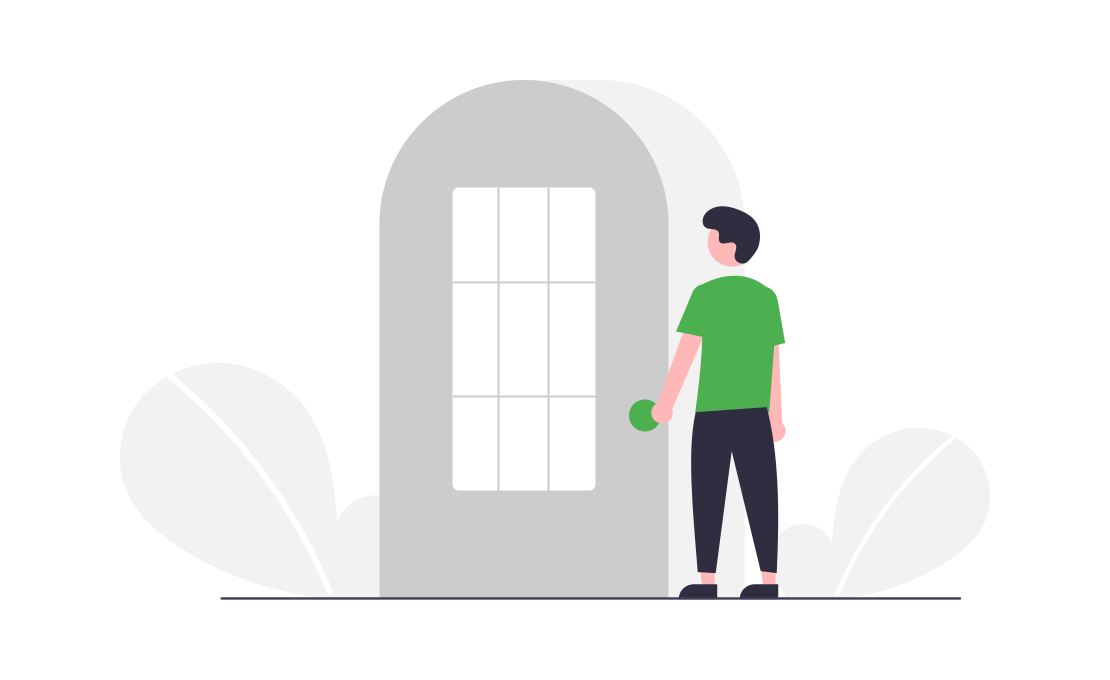
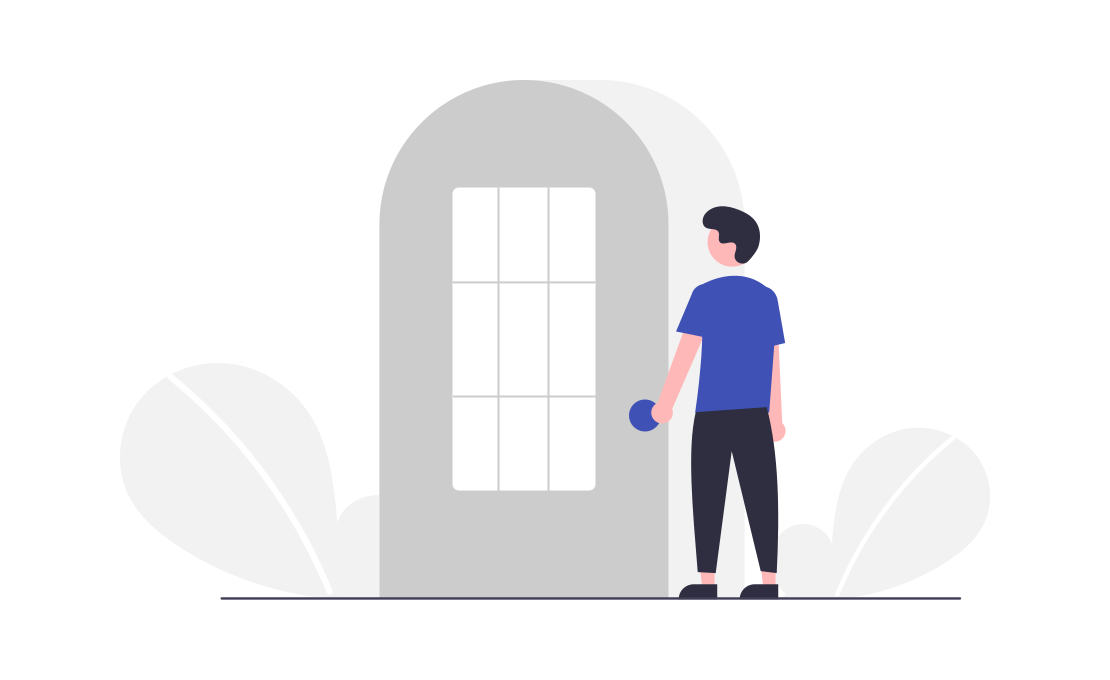
Customizing HomeScreen

Changed region(s): [[0.5514, 0.4015, 0.7045, 0.6485]]

diff --git a/lib/screens/home.dart b/lib/screens/home.dart
@@ -1,20 +1,45 @@
-import 'package:catalogue/widgets/drawer.dart';
-import 'package:flutter/material.dart';
+import 'dart:convert';
 
-class Homepage extends StatelessWidget {
+import 'package:catalogue/utils/catalog.dart';
+import 'package:catalogue/widgets/drawer.dart';
+import 'package:catalogue/widgets/item_widget.dart';
+import 'package:flutter/material.dart';
+import 'package:flutter/services.dart';
+
+class Homepage extends StatefulWidget {
+  @override
+  _HomepageState createState() => _HomepageState();
+}
+
+class _HomepageState extends State<Homepage> {
   int age = 20;
+  @override
+  void initState() {
+    // TODO: implement initState
+    super.initState();
+    loadData();
+  }
+
+  loadData() async {
+    var cataloguejson =
+        await rootBundle.loadString("assets/files/catalogue.json");
+    var decode = jsonDecode(cataloguejson);
+    print(decode);
+  }
+
   @override
   Widget build(BuildContext context) {
     return Scaffold(
       appBar: AppBar(
         title: Text("Catalogue"),
       ),
-      body: Center(
-        child: Container(
-          child: Text(
-            'Hey There\n\nI am $age years old.',
-          ),
-        ),
+      body: ListView.builder(
+        itemCount: CatalogueModel.items.length,
+        itemBuilder: (context, index) {
+          return ItemWidget(
+            item: CatalogueModel.items[index],
+          );
+        },
       ),
       drawer: MyDrawer(),
     );

diff --git a/lib/utils/catalog.dart b/lib/utils/catalog.dart
@@ -1,0 +1,39 @@
+class CatalogueModel {
+  static final items = [
+    Item(
+      id: 1,
+      name: "IPhone 12 Pro",
+      desc: "Gold 128 GB",
+      price: 999,
+      color: "33305a",
+      url:
+          "https://store.storeimages.cdn-apple.com/4982/as-images.apple.com/is/iphone-12-pro-max-gold-hero?wid=940&hei=1112&fmt=png-alpha&.v=1604021660000",
+    ),
+    Item(
+      id: 2,
+      name: "IPhone 12 Pro",
+      desc: "Graphite 128 GB",
+      price: 999,
+      color: "33305a",
+      url:
+          "https://store.storeimages.cdn-apple.com/4982/as-images.apple.com/is/iphone-12-pro-graphite-hero?wid=940&hei=1112&fmt=png-alpha&.v=1604021660000",
+    )
+  ];
+}
+
+class Item {
+  final int id;
+  final String name;
+  final String desc;
+  final num price;
+  final String color;
+  final String url;
+
+  Item(
+      {required this.id,
+      required this.name,
+      required this.desc,
+      required this.price,
+      required this.color,
+      required this.url});
+}

diff --git a/lib/widgets/item_widget.dart b/lib/widgets/item_widget.dart
@@ -1,0 +1,29 @@
+import 'package:catalogue/utils/catalog.dart';
+import 'package:flutter/material.dart';
+
+class ItemWidget extends StatelessWidget {
+  final Item item;
+
+  const ItemWidget({Key? key, required this.item})
+      // ignore: unnecessary_null_comparison
+      : assert(item != null),
+        super(key: key);
+  @override
+  Widget build(BuildContext context) {
+    return Card(
+      child: ListTile(
+        leading: Image.network(item.url),
+        title: Text(item.name),
+        subtitle: Text(item.desc),
+        trailing: Text(
+          "\$${item.price}",
+          textScaleFactor: 1.2,
+          style: TextStyle(
+            color: Colors.indigo,
+            fontWeight: FontWeight.bold,
+          ),
+        ),
+      ),
+    );
+  }
+}

diff --git a/lib/screens/login.dart b/lib/screens/login.dart
@@ -84,7 +84,7 @@ class _LoginState extends State<Login> {
                     ),
                     SizedBox(height: 40),
                     Material(
-                      color: Colors.green,
+                      color: Colors.indigo,
                       borderRadius:
                           BorderRadius.circular(changebutton ? 55 : 8),
                       child: InkWell(

diff --git a/lib/widgets/themes.dart b/lib/widgets/themes.dart
@@ -3,7 +3,7 @@ import 'package:google_fonts/google_fonts.dart';
 
 class MyTheme {
   static ThemeData lightTheme(BuildContext context) => ThemeData(
-      primarySwatch: Colors.green,
+      primarySwatch: Colors.indigo,
       fontFamily: GoogleFonts.lato().fontFamily,
       appBarTheme: AppBarTheme(
         color: Colors.white,

diff --git a/lib/widgets/drawer.dart b/lib/widgets/drawer.dart
@@ -9,7 +9,7 @@ class MyDrawer extends StatelessWidget {
   Widget build(BuildContext context) {
     return Drawer(
       child: Container(
-        color: Colors.green,
+        color: Colors.indigo,
         child: ListView(
           padding: EdgeInsets.zero,
           children: [

diff --git a/lib/main.dart b/lib/main.dart
@@ -3,7 +3,6 @@ import 'package:catalogue/screens/home.dart';
 import 'package:catalogue/utils/routes.dart';
 import 'package:catalogue/widgets/themes.dart';
 import 'package:flutter/material.dart';
-import 'package:google_fonts/google_fonts.dart';
 
 void main() => runApp(MyApp());
 
